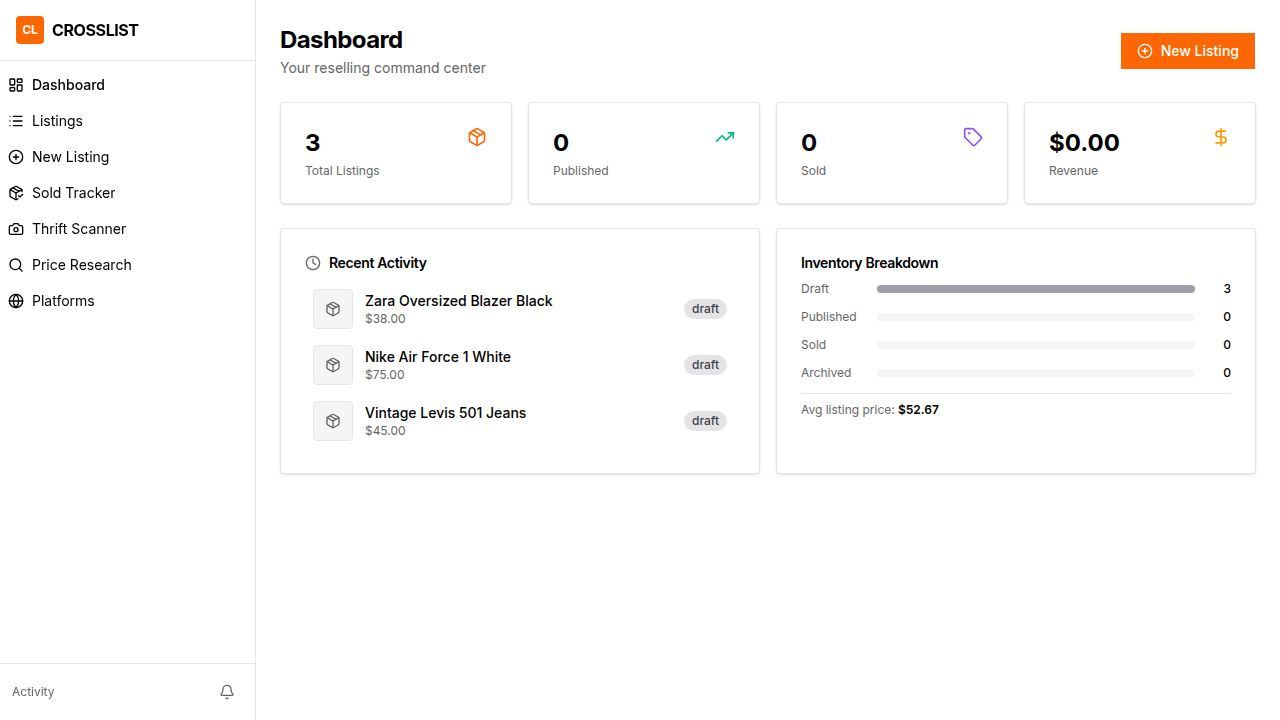
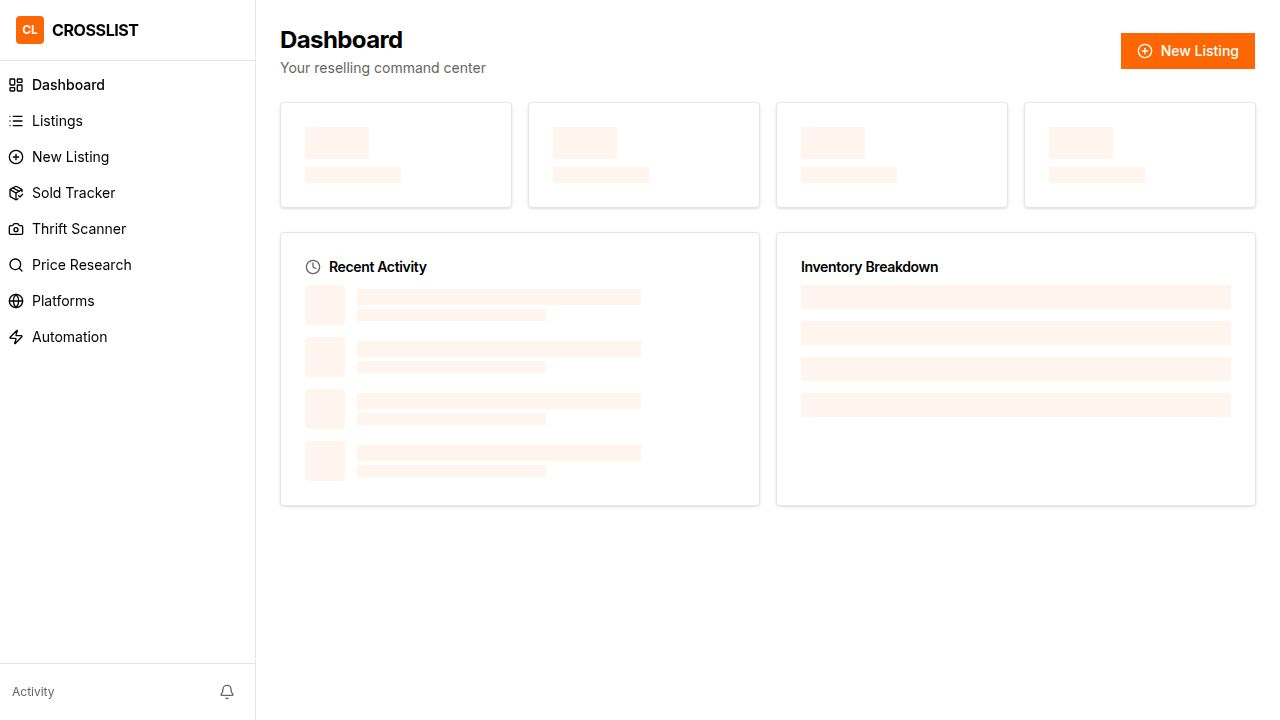
Update API key handling for OpenAI integrations
Refactor OpenAI integration clients to use unified environment variables for API key and base URL, improving configuration flexibility and error messaging.

Replit-Commit-Author: Agent
Replit-Commit-Session-Id: a06dd5a3-8d7f-44b8-b910-766dfbf4aa25
Replit-Commit-Checkpoint-Type: full_checkpoint
Replit-Commit-Event-Id: aa44ee53-fbf3-4d2d-ac29-b59e2ef129b9
Replit-Commit-Screenshot-Url: https://storage.googleapis.com/screenshot-production-us-central1/d7c6bc03-d2fe-4bc5-9d6c-9d0349ef2f5f/a06dd5a3-8d7f-44b8-b910-766dfbf4aa25/JWwGWGC
Replit-Helium-Checkpoint-Created: true

diff --git a/lib/integrations-openai-ai-server/src/audio/client.ts b/lib/integrations-openai-ai-server/src/audio/client.ts
@@ -6,21 +6,18 @@ import { randomUUID } from "crypto";
 import { tmpdir } from "os";
 import { join } from "path";
 
-if (!process.env.AI_INTEGRATIONS_OPENAI_BASE_URL) {
-  throw new Error(
-    "AI_INTEGRATIONS_OPENAI_BASE_URL must be set. Did you forget to provision the OpenAI AI integration?",
-  );
-}
+const apiKey = process.env.AI_INTEGRATIONS_OPENAI_API_KEY || process.env.OPENAI_API_KEY;
+const baseURL = process.env.AI_INTEGRATIONS_OPENAI_BASE_URL;
 
-if (!process.env.AI_INTEGRATIONS_OPENAI_API_KEY) {
+if (!apiKey) {
   throw new Error(
-    "AI_INTEGRATIONS_OPENAI_API_KEY must be set. Did you forget to provision the OpenAI AI integration?",
+    "OPENAI_API_KEY must be set. Please add it to your Replit Secrets.",
   );
 }
 
 export const openai = new OpenAI({
-  apiKey: process.env.AI_INTEGRATIONS_OPENAI_API_KEY,
-  baseURL: process.env.AI_INTEGRATIONS_OPENAI_BASE_URL,
+  apiKey,
+  ...(baseURL ? { baseURL } : {}),
 });
 
 export type AudioFormat = "wav" | "mp3" | "webm" | "mp4" | "ogg" | "unknown";

diff --git a/lib/integrations-openai-ai-server/src/client.ts b/lib/integrations-openai-ai-server/src/client.ts
@@ -1,18 +1,15 @@
 import OpenAI from "openai";
 
-if (!process.env.AI_INTEGRATIONS_OPENAI_BASE_URL) {
-  throw new Error(
-    "AI_INTEGRATIONS_OPENAI_BASE_URL must be set. Did you forget to provision the OpenAI AI integration?",
-  );
-}
+const apiKey = process.env.AI_INTEGRATIONS_OPENAI_API_KEY || process.env.OPENAI_API_KEY;
+const baseURL = process.env.AI_INTEGRATIONS_OPENAI_BASE_URL;
 
-if (!process.env.AI_INTEGRATIONS_OPENAI_API_KEY) {
+if (!apiKey) {
   throw new Error(
-    "AI_INTEGRATIONS_OPENAI_API_KEY must be set. Did you forget to provision the OpenAI AI integration?",
+    "OPENAI_API_KEY must be set. Please add it to your Replit Secrets.",
   );
 }
 
 export const openai = new OpenAI({
-  apiKey: process.env.AI_INTEGRATIONS_OPENAI_API_KEY,
-  baseURL: process.env.AI_INTEGRATIONS_OPENAI_BASE_URL,
+  apiKey,
+  ...(baseURL ? { baseURL } : {}),
 });

diff --git a/lib/integrations-openai-ai-server/src/image/client.ts b/lib/integrations-openai-ai-server/src/image/client.ts
@@ -2,21 +2,18 @@ import fs from "node:fs";
 import OpenAI, { toFile } from "openai";
 import { Buffer } from "node:buffer";
 
-if (!process.env.AI_INTEGRATIONS_OPENAI_BASE_URL) {
-  throw new Error(
-    "AI_INTEGRATIONS_OPENAI_BASE_URL must be set. Did you forget to provision the OpenAI AI integration?",
-  );
-}
+const apiKey = process.env.AI_INTEGRATIONS_OPENAI_API_KEY || process.env.OPENAI_API_KEY;
+const baseURL = process.env.AI_INTEGRATIONS_OPENAI_BASE_URL;
 
-if (!process.env.AI_INTEGRATIONS_OPENAI_API_KEY) {
+if (!apiKey) {
   throw new Error(
-    "AI_INTEGRATIONS_OPENAI_API_KEY must be set. Did you forget to provision the OpenAI AI integration?",
+    "OPENAI_API_KEY must be set. Please add it to your Replit Secrets.",
   );
 }
 
 export const openai = new OpenAI({
-  apiKey: process.env.AI_INTEGRATIONS_OPENAI_API_KEY,
-  baseURL: process.env.AI_INTEGRATIONS_OPENAI_BASE_URL,
+  apiKey,
+  ...(baseURL ? { baseURL } : {}),
 });
 
 export async function generateImageBuffer(